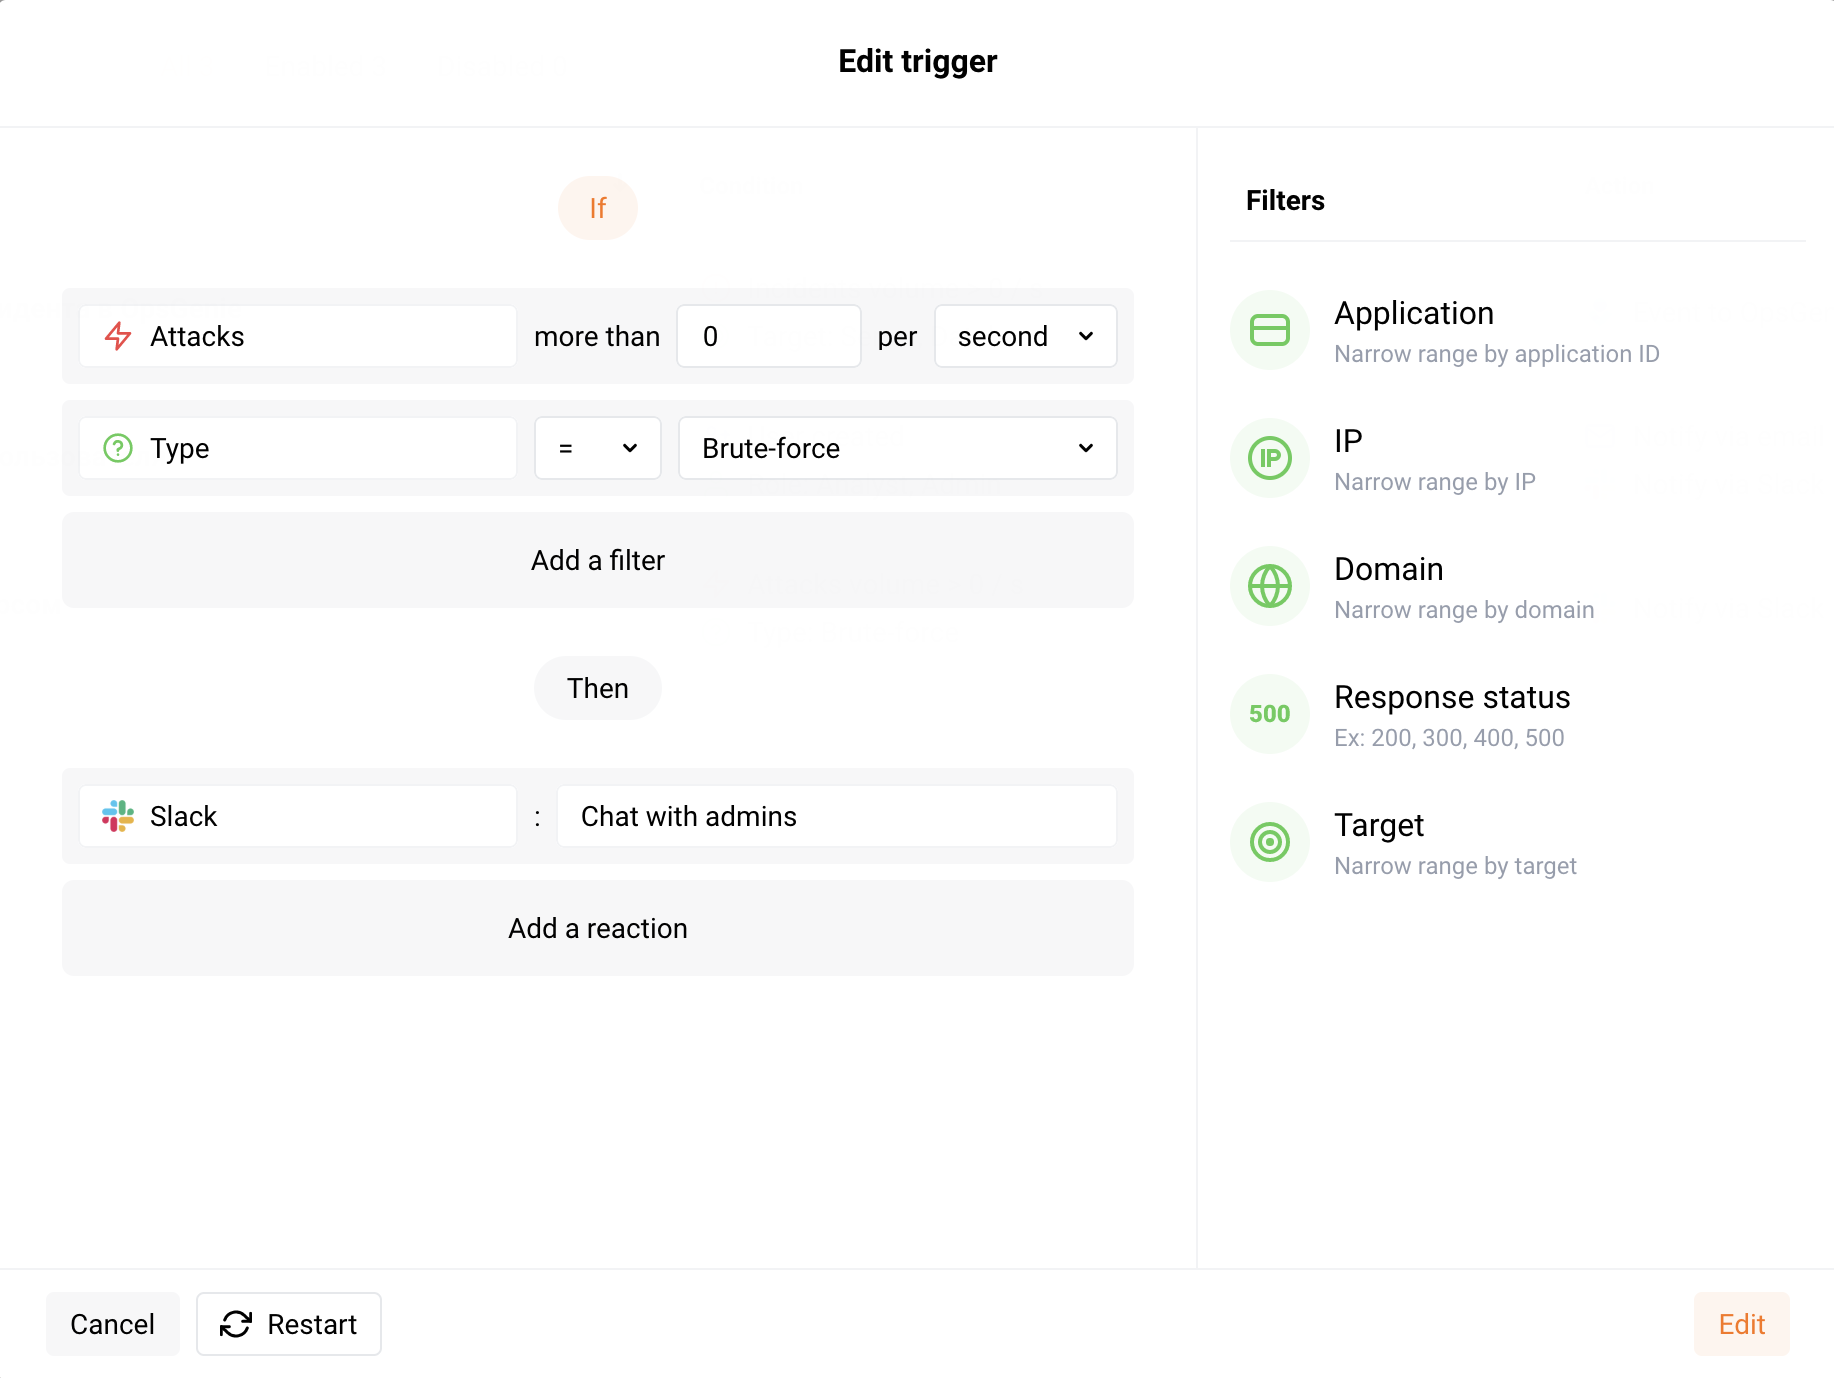
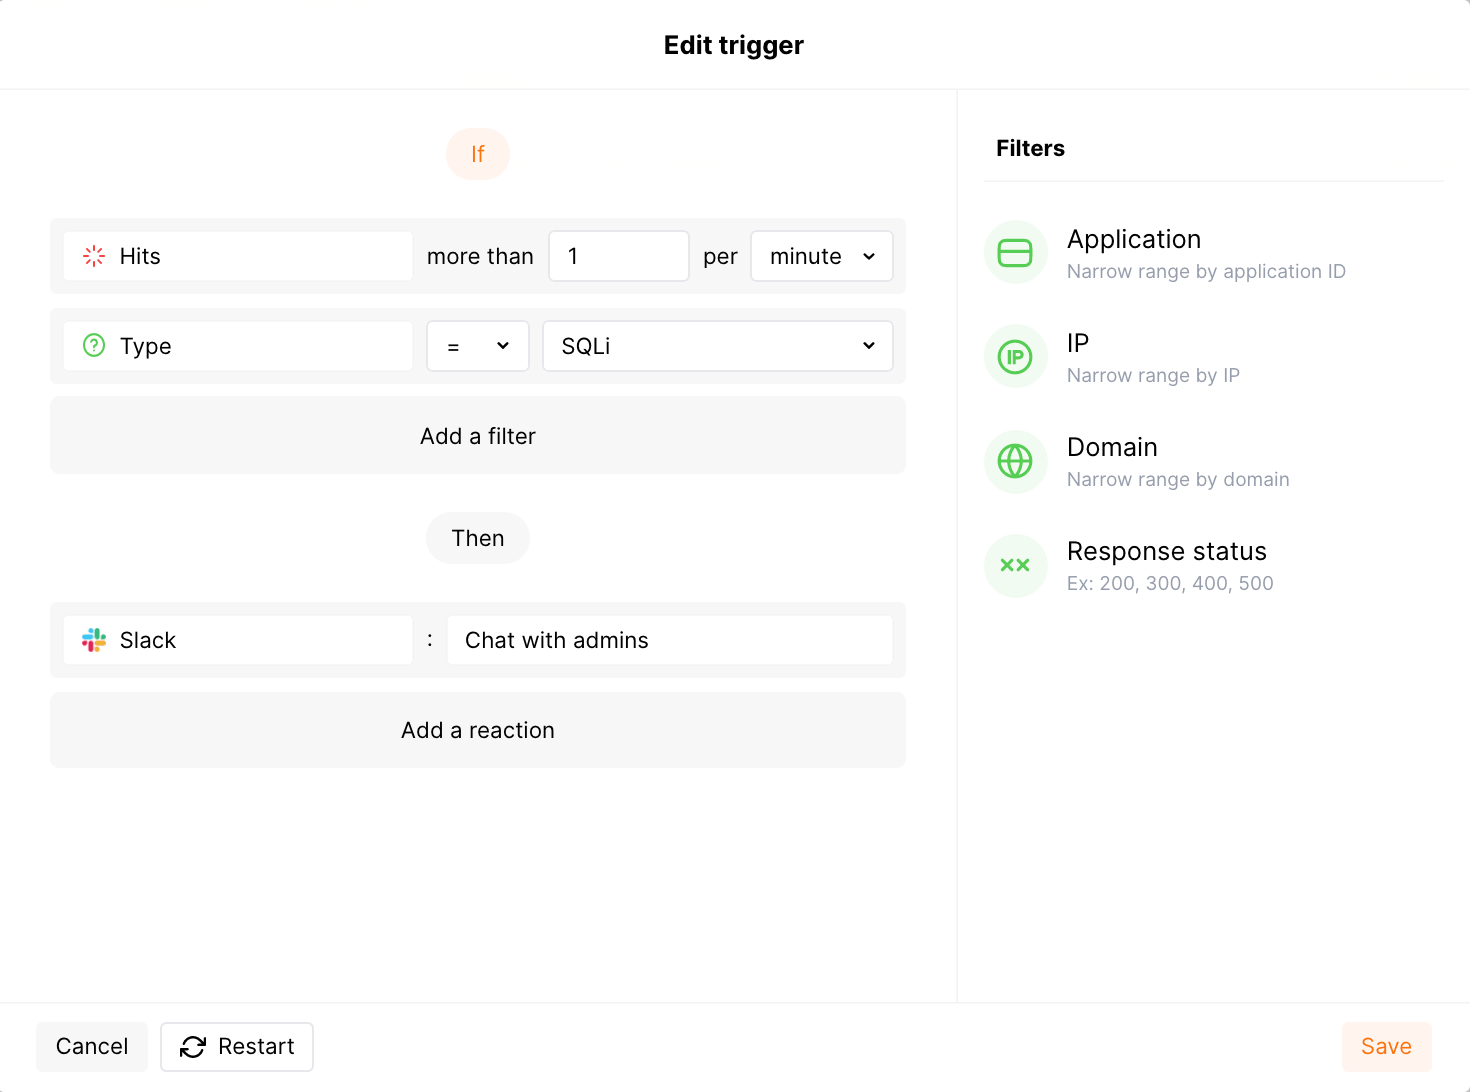
DOCS-1018 rebuild trigger examples section

diff --git a/docs/2.16/user-guides/triggers/trigger-examples.md b/docs/2.16/user-guides/triggers/trigger-examples.md
@@ -1,13 +1,58 @@
 # Trigger examples
 
-* Send a notification to Slack if at least one brute-force attack is detected in one second
+## Blacklist IP if 4 or more attack vectors were detected in 3 hours (default trigger)
 
-    ![!Example of a trigger sending the notification to Slack](../../images/user-guides/triggers/trigger-example1.png)
+The trigger **Block IPs with high count of attack vectors** is created for all clients by default. If 4 or more different attack vectors were sent to the protected resource from one IP address, this IP address will be blacklisted for 1 hour.
 
-* Send notifications to Slack and by email if an *Analyst* or *Admin* user is added to the account
+![!Default trigger](../../images/user-guides/triggers/trigger-example-default.png)
 
-    ![!Example of a trigger sending the notification to Slack and by email](../../images/user-guides/triggers/trigger-example2.png)
+You can perform all available trigger actions: edit, disable, delete, or copy the trigger.
 
-* Send the data to Splunk if at least one incident with the application server or database is detected in one second
+## Slack notification if 2 or more SQLi hits were detected in one minute
 
-    ![!Example of a trigger sending the data to Splunk](../../images/user-guides/triggers/trigger-example3.png)
+If 2 or more SQLi [hits](../../glossary-en.md#hit) were sent to the protected resource, notification about this event will be sent to the Slack channel.
+
+![!Example of a trigger sending the notification to Slack](../../images/user-guides/triggers/trigger-example1.png)
+
+Slack notification from the user **wallarm**:
+
+```
+Please make attention! Notification about SQLi hits is triggered: The number of hits for the sqli type in 1 minute exceeds 1
+```
+
+* `Notification about SQLi hits` is the trigger name
+
+## Slack and email notification if new user is added to the account
+
+If a new user with the **Administrator** or **Analyst** role is added to the company account in the Wallarm Console, notification about this event will be sent to the email address specified in the integration and to the Slack channel.
+
+![!Example of a trigger sending the notification to Slack and by email](../../images/user-guides/triggers/trigger-example2.png)
+
+* Email:
+
+    ![!Email about new user added](../../images/user-guides/triggers/trigger-email-example.png)
+
+* Slack notification from the user **wallarm**:
+
+    ```
+    Please make attention! Added user is triggered: New user user@example.com was created by John Smith. New user role is Analyst.
+    ```
+
+    * `Added user` is the trigger name
+    * `user@example.com` if the email address of the added user
+    * `Analyst` is the role of the added user
+    * `John Smith` is the user who added a new user
+
+## OpsGenie notification if 2 or more incidents were detected in one second
+
+If 2 or more incidents with the application server or database were detected in one second, the notification about this event will be sent to OpsGenie.
+
+![!Example of a trigger sending the data to Splunk](../../images/user-guides/triggers/trigger-example3.png)
+
+OpsGenie notification:
+
+```
+Please make attention! Notification about incidents is triggered: The number of incidents for the server, database in 1 second exceeds 1
+```
+
+* `Notification about incidents` is the trigger name
